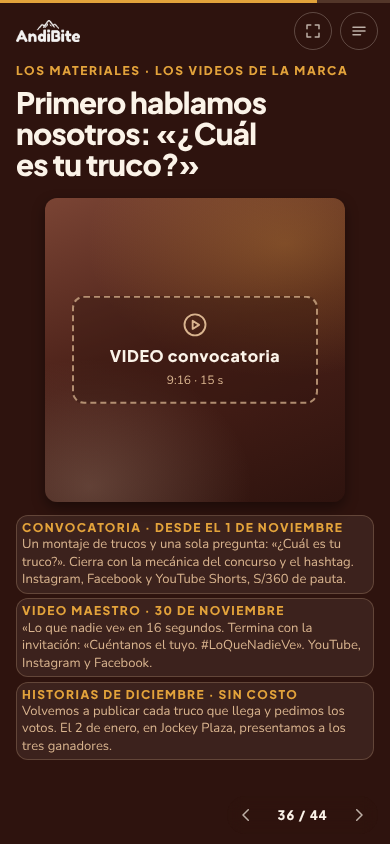
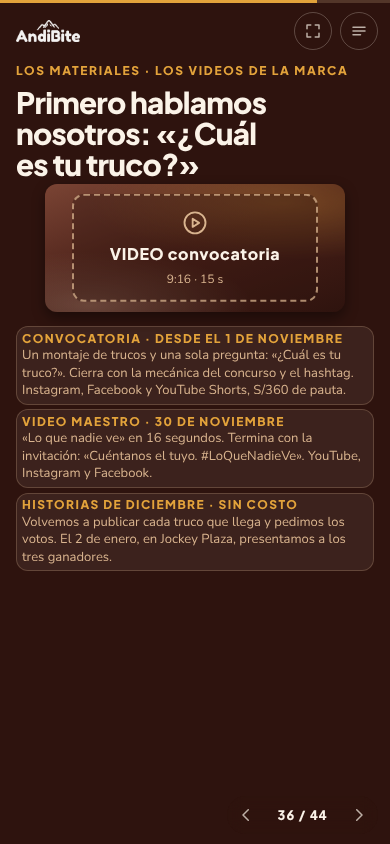
Hilo de campaña: 'Y otros lo cuentan por nosotros', tres familias ganadoras, documento de campaña al día
Claude-Session: https://claude.ai/code/session_01Kfbf7cfV7pXUcNjjyaPCzV

Changed region(s): [[0.0308, 0.2156, 0.9231, 0.8934], [0.8, 0.5237, 0.9231, 0.5545], [0.9231, 0.4621, 0.9538, 0.4929]]

diff --git a/04-reformulacion/T2/web-presentacion/index.html b/04-reformulacion/T2/web-presentacion/index.html
@@ -827,12 +827,12 @@
     <div class="ad">
       <div class="ad-media in"><div class="media media-v" data-video="vid/testimonial.mp4" data-media="img/campana/campana_3.jpg" data-label="VIDEO familia real" data-note="9:16 · 8 s"></div></div>
       <div class="ad-txt">
-        <p class="kicker in">Los materiales · testimonio de una familia real: el truco ganador del concurso</p>
+        <p class="kicker in">Los materiales · testimonio de una de las tres familias ganadoras del concurso</p>
         <h2 class="ad-hook in">“Mi truco era decirle que el hígado era carne de dinosaurio.”</h2>
         <p class="ad-body in">“Ahora no le cuento nada: le mando su brownie y la lonchera vuelve vacía. Lo que antes no veía, su hierro de cada día, ahora lo veo en la app.”</p>
         <div class="ad-ctas in"><span class="pieza-cta">Pruébalo en el stand</span><span class="pieza-cta cta-alt">Pídelo por WhatsApp</span></div>
         <dl class="datos in">
-          <div><dt>Cómo se hace</dt><dd>Grabado con celular el 2 de enero en Jockey Plaza, con la familia que ganó el concurso. Sin costo de producción.</dd></div>
+          <div><dt>Cómo se hace</dt><dd>Grabado con celular el 2 de enero en Jockey Plaza, con una de las tres familias ganadoras del concurso. Sin costo de producción.</dd></div>
           <div><dt>Cuándo</dt><dd>Desde febrero de 2027, en Lima Top y Lima Moderna</dd></div>
           <div><dt>Inversión</dt><dd>S/1,840 de pauta</dd></div>
           <div><dt>Meta</dt><dd>223 conversaciones de WhatsApp</dd></div>
@@ -843,15 +843,15 @@
 </section>
 
 <!-- 40 · PRIMERO LO CUENTAN ELLOS -->
-<section id="s-voces" data-sec="La campaña" data-title="Primero lo cuentan ellos" data-theme="light" data-background-color="#FBF3E8">
+<section id="s-voces" data-sec="La campaña" data-title="Y otros lo cuentan por nosotros" data-theme="light" data-background-color="#FBF3E8">
   <div class="frame">
-    <p class="kicker in">Antes que nosotros, hablan los que ya tienen un truco</p>
-    <h2 class="title in">Primero lo cuentan ellos.</h2>
+    <p class="kicker in">Los materiales · quienes lo pasan de boca en boca</p>
+    <h2 class="title in">Y otros lo cuentan por nosotros.</h2>
     <div class="finds finds-pv">
       <div class="find in"><i class="ico find-ico" data-icon="megaphone"></i><span class="find-n find-sm">S/458</span><h3>40 influencers con hijos</h3><p>20 de Lima Top y 20 de Lima Moderna reciben su pack y cuentan su propio truco con #LoQueNadieVe, antes del 10 de enero.</p></div>
       <div class="find in"><i class="ico find-ico" data-icon="flask"></i><span class="find-n find-sm">10 kits</span><h3>Pediatras y nutricionistas</h3><p>En enero, para quienes escuchan más trucos que nadie en la consulta.</p></div>
       <div class="find in"><i class="ico find-ico" data-icon="chat"></i><span class="find-n find-sm">S/200</span><h3>Papás y mamás embajadores, al mes</h3><p>Pasan su truco y su código en el chat del salón. Meta: 230 familias nuevas. El premio es para el adulto.</p></div>
-      <div class="find in"><i class="ico find-ico" data-icon="phone"></i><span class="find-n find-sm">S/600</span><h3>Concurso #LoQueNadieVe</h3><p>Del 1 de noviembre al 20 de diciembre. S/360 de pauta y S/240 en premios: un mes de lonchera para cada adulto ganador y su truco en el mural de Jockey Plaza.</p></div>
+      <div class="find in"><i class="ico find-ico" data-icon="phone"></i><span class="find-n find-sm">S/600</span><h3>Concurso #LoQueNadieVe</h3><p>Del 1 de noviembre al 20 de diciembre. S/360 de pauta y S/240 en premios: un mes de lonchera para cada uno de los tres adultos ganadores.</p></div>
     </div>
   </div>
 </section>

diff --git a/04-reformulacion/T2/web-presentacion/src/style.css b/04-reformulacion/T2/web-presentacion/src/style.css
@@ -1440,3 +1440,5 @@ body.is-hero .ui-brand { visibility: hidden; }
   .media-wide { display: none; }
 }
 #s-dinamica .twocol { margin-top: calc(1.6 * var(--u)); }
+.media-conv { height: min(calc(33 * var(--u)), 58vh); }
+.marca { margin-top: calc(1 * var(--u)); align-items: start; }

diff --git a/04-reformulacion/T2/web-presentacion/REVISION-31.md b/04-reformulacion/T2/web-presentacion/REVISION-31.md
@@ -1,15 +1,14 @@
 # Observaciones de Carlos (19-oct-2026) y estado
 
-Estado: **ABIERTO. SÉPTIMA VERIFICACIÓN DEL DIRECTOR, 19-oct-2026, 22:40** (commits `e7b0086` y `19d3f81`: capítulo de campaña reordenado, 43 pantallas + 4 anexos; capturas regeneradas, celular 01, 02, 05, 26, 28, 30, 31, 33 y 34; andibite.cingacordova.workers.dev descargado a las 22:25, igual a index.html salvo las etiquetas del build (index-LmbILwZQ.js, index-CZLrwqa7.css); app sin cambios desde `8d9f6d5`, bundle publicado index-BN0oG-Jj.js). Resultado: **27 CUMPLIDOS y 4 NO CUMPLIDOS (23, 25, 26 y 29)**; de las 5 transversales cumplen 2 (T1 y papá y mamá) y fallan 3 (hilo, palabras y frases espejo, cifras).
-Sexta verificación (commit `397656a`): 31 y 0. Quinta (commit `0ef5cf9`): 28 y 3 (21, 25 y 29).
-Cuarta verificación (commit `8d9f6d5`): 31 y 0. Tercera (commit `58efd7d`): 29 y 2 (26 y 29), más el hilo.
-Segunda verificación (commit `331f3a6`): 25 y 6. Primera (commit `c7adaf2`): 21 y 10.
-Formato: `N. [CUMPLIDO|NO CUMPLIDO] evidencia · qué falta`. "Casi" cuenta como NO CUMPLIDO. Numeración de pantallas nueva: 27 portada de campaña … 43 cierre; anexos 44 a 47 (index.html:930, :959, :983 y :1001).
+Estado: **ABIERTO. OCTAVA VERIFICACIÓN DEL DIRECTOR, 19-oct-2026, 22:50** (commits `f5b96bc` y `380dd8a`: videos de la marca, 44 pantallas + 4 anexos; capturas regeneradas a las 22:42; andibite.cingacordova.workers.dev descargado a las 22:44, igual a index.html salvo las etiquetas del build (index-qmko6LnL.js, index-CJqkde7v.css); app sin cambios desde `8d9f6d5`). Resultado: **28 CUMPLIDOS y 3 NO CUMPLIDOS (24, 25 y 29)**; de las 5 transversales cumplen 3 (T1, papá y mamá, cifras) y fallan 2 (hilo; frases espejo).
+Séptima verificación (commit `19d3f81`): 27 y 4 (23, 25, 26 y 29). Sexta (commit `397656a`): 31 y 0. Quinta (commit `0ef5cf9`): 28 y 3.
+Cuarta (commit `8d9f6d5`): 31 y 0. Tercera (commit `58efd7d`): 29 y 2. Segunda (commit `331f3a6`): 25 y 6. Primera (commit `c7adaf2`): 21 y 10.
+Formato: `N. [CUMPLIDO|NO CUMPLIDO] evidencia · qué falta`. "Casi" cuenta como NO CUMPLIDO. Numeración de pantallas: 27 portada de campaña … 36 videos de marca, 37-39 anuncios, 40 primero lo cuentan ellos, 41 stand, 42 equipo, 43 QR, 44 cierre; anexos 45 a 48 (index.html:950, :979, :1003 y :1021).
 
 1. Entre la 4 y la 5 aparece AndiBite: el divisor dice "Nuestra respuesta: AndiBite" y la 5 explica brevemente qué es.
-   **[CUMPLIDO]** index.html:102-131 sin cambios. Capturas escritorio-04 y 05 regeneradas. Hilo general de las 43 capturas: problema (1-3), AndiBite (4-5), investigación (6-13), producto (14-16), app (17-21), mercado (22-26), campaña (27-41), pruébenla (42) y cierre (43). Los fallos de hilo dentro de la campaña van en la transversal.
+   **[CUMPLIDO]** index.html:102-131 sin cambios. Capturas escritorio-04 y 05.
 
-2. Pantalla 6: sin repeticiones con la 5; nada contradictorio; fechas por semanas (S1–S4 entrevistas, S5 focus, S6 degustación, S7 cambio a A y B, hoy T2).
+2. Pantalla 6: sin repeticiones con la 5; nada contradictorio; fechas por semanas.
    **[CUMPLIDO]** index.html:141-145 sin cambios. Captura escritorio-06.
 
 3. Pantalla 10: cada hallazgo muestra qué decisión tomamos con él; título coherente.
@@ -21,106 +20,103 @@ Formato: `N. [CUMPLIDO|NO CUMPLIDO] evidencia · qué falta`. "Casi" cuenta como
 5. Pantalla 13: la razón "horno, moldes y balanza" explica que lo hace la maquila sin invertir en maquinaria.
    **[CUMPLIDO]** index.html:271. Captura escritorio-13.
 
-6. Propuesta de valor y app: control del hierro del día (mg frente a lo que necesita por edad), suma del brownie, de la lonchera y de otras comidas, y resumen para el padre o la madre que no está en casa. App minimalista.
-   **[CUMPLIDO]** App sin cambios desde 8d9f6d5 (bundle publicado index-BN0oG-Jj.js, el mismo de la sexta). app-capturas5/10-hoy: "1.9 de 10 mg", "Volvió vacía", "Otra comida con hierro", "Enviar a papá o mamá". Evidencia de la cuarta y sexta sigue válida (Reto.tsx:137, src/lib/compartir.ts:17, tests/logica.test.ts:120).
+6. Propuesta de valor y app: control del hierro del día, suma de brownie, lonchera y otras comidas, resumen para el padre o la madre que no está en casa. App minimalista.
+   **[CUMPLIDO]** App sin cambios desde 8d9f6d5; evidencia de la cuarta y sexta sigue válida (Reto.tsx:137, src/lib/compartir.ts:17, tests/logica.test.ts:120; app-capturas5/10-hoy).
 
-7. Pantalla 15 con impacto visual: foto, título grande, poco texto, animación.
+7. Pantalla 15 con impacto visual.
    **[CUMPLIDO]** index.html:336-354. Captura escritorio-15.
 
 8. Pantalla 19: capturas con marco y sombra.
    **[CUMPLIDO]** index.html:403-412. Captura escritorio-19.
 
 9. Toda la presentación y la app hablan a papá y mamá, no solo a la mamá.
-   **[CUMPLIDO]** Textos nuevos: 27 "un papá o una mamá inventa un truco" (:569), 34 "los trucos de mamá y los trucos de papá" (:728), 39 "papá y mamá publican su truco… el adulto gana" (:834), anexo 2 "con papá o mamá" (:970-971). "La mamá" solo en la cita de Vanessa (:584). App sin "la mamá" suelta (grep en src/).
+   **[CUMPLIDO]** Textos nuevos: "cada adulto ganador" (:854), "Papás y mamás embajadores" (:853), V3 y V4 de PROMPTS con adultos y sin niños. "Mamá" suelta solo en hechos (8 mamás de la degustación, :172 y :212-232) y en citas (:582-584). App sin "la mamá" suelta.
 
-10. Pantalla 21: una sola cifra de recompra explicada; el 30 % de escaneos no aparece ahí.
-   **[CUMPLIDO]** index.html:452 sin cambios. La 31 repite el mismo 35 % (:652), no otra cifra.
+10. Pantalla 21: una sola cifra de recompra explicada.
+   **[CUMPLIDO]** index.html:452; la 31 repite el mismo 35 % (:653).
 
-11. Buyer persona dinámico: marco de video por persona, menos texto, sin "lo escupe", interacción.
+11. Buyer persona dinámico.
    **[CUMPLIDO]** index.html:468-497. Captura escritorio-23.
 
-12. Pantalla 24: ejes y cuadrantes con lenguaje profesional; sin la línea de riesgo.
-   **[CUMPLIDO]** src/mapa.ts:1, :7 y :31-34 sin cambios. Captura escritorio-24.
+12. Pantalla 24: ejes y cuadrantes profesionales; sin la línea de riesgo.
+   **[CUMPLIDO]** src/mapa.ts sin cambios. Captura escritorio-24.
 
-13. Pantalla 25: sin "cómo lo calculamos"; hogares en una línea; menos texto.
+13. Pantalla 25: sin "cómo lo calculamos"; hogares en una línea.
    **[CUMPLIDO]** index.html:516-530. Captura escritorio-25.
 
 14. Stands consistentes: Jockey Plaza enero, Salaverry febrero, La Molina agosto.
-   **[CUMPLIDO]** index.html:555, :621-635 (30: "En el stand · desde el 2 de enero"), :648 (mural de Jockey Plaza al 31 de enero), :725, :731, :795 y :861. App: `GET https://andi-app.cingacordova.workers.dev/api/puntos` (22:30) devuelve p1 Jockey Plaza 2027-01-02, p2 Real Plaza Salaverry 2027-02-01 y p3 La Molina 2027-08-01.
+   **[CUMPLIDO]** index.html:630, :724-732, :776 ("El 2 de enero, en Jockey Plaza"), :835, :881.
 
-15. Campaña potente y emocional ("Lo que nadie ve"), con propósito; sin "su prueba… la tuya…".
-   **[CUMPLIDO]** index.html:562-888 (pantallas 27 a 41). Grep sin "su prueba" ni "la tuya" (solo en la lista de frases que se evitan, CAMPANA:210).
+15. Campaña potente y emocional, sin "su prueba… la tuya…".
+   **[CUMPLIDO]** index.html:562-907. Grep sin "su prueba" ni "la tuya" (solo en la lista de frases que se evitan, CAMPANA:210).
 
 16. "Contactos en espera" explicado o eliminado.
-   **[CUMPLIDO]** En la presentación, eliminado (grep sin resultados; el anexo 1 dice "100 familias en WhatsApp", :948). Queda en HECHOS_v7.md:204: ver transversal de cifras.
+   **[CUMPLIDO]** Sin resultados en index.html; HECHOS_v7.md:205 ahora dice "100 familias en WhatsApp".
 
 17. Concepto de campaña no genérico; conecta emocionalmente.
-   **[CUMPLIDO]** Insight (:576-588), manifiesto (:591-613) y dinámica «Cuéntanos tu truco. Funcione o no, cuenta.» (:616-640). Capturas escritorio-27 a 30.
+   **[CUMPLIDO]** Insight (:576-588), manifiesto (:591-613), dinámica (:616-641). Capturas escritorio-27 a 30.
 
 18. Pantalla 5-3-2 eliminada.
-   **[CUMPLIDO]** Grep sin resultados en index.html.
+   **[CUMPLIDO]** Grep sin resultados.
 
-19. Pantalla del stand: la imagen no tapa el título; lo que era "recomendación" es parte de la campaña.
-   **[CUMPLIDO]** Stand es ahora la 40 (:840-869); captura escritorio-40: el marco va debajo del título. "Primero lo cuentan ellos" es la 39 (:826-837), antes del stand (captura escritorio-39).
+19. Pantalla del stand: la imagen no tapa el título; "recomendación" pasa a ser parte de la campaña.
+   **[CUMPLIDO]** Stand es la 41 (:860-889); captura escritorio-41: el marco va debajo del título y los pasos son propios del stand (mural y trípode, mesa de degustación, caja y QR, :868-870).
 
-20. Pantalla de etapas: qué hacemos en cada etapa, con detalle.
-   **[CUMPLIDO]** Ahora la 34 (:713-736), tres viñetas y meta por etapa; S/1,758 + 5,796 + 9,770 + 7,220 = 24,544. Captura escritorio-34. Observación: en celular (celular-34) style.css:1404 oculta la 2.ª y 3.ª viñeta, así que en el teléfono la etapa pierde el concurso y las metas; ver observaciones.
+20. Pantalla de etapas con detalle.
+   **[CUMPLIDO]** La 34 (:714-737), S/1,758 + 5,796 + 9,770 + 7,220 = 24,544. Captura escritorio-34.
 
-21. Pantalla de gasto con cifras y título coherente; títulos encadenados en el capítulo.
-   **[CUMPLIDO]** 32 "S/24,544 en quince meses para que toda Lima cuente su truco." (:661) y 33 "En qué se va cada sol de la campaña." (:690). Por tipo de medio 7,596 + 6,858 + 5,950 + 4,140 = 24,544; Publicidad 5,950 = 4,050 + 1,000 + 600 + 300; Digital 26 % = 5,950 + 458 = 6,408; Calle 74 % = 18,136. Las 12 partidas de la 33 (:694-705) suman 24,544. Captura escritorio-32 y 33. Títulos: 27 → 28 → 29 → 30 → 31 → 32 → 33 → 34 → 35 → 39 → 40 → 41 encadenan con "truco"; la 31 "Cinco metas con fecha." es la redacción decidida por Carlos (HECHOS_v7.md:23).
+21. Pantalla de gasto con cifras y título coherente; títulos encadenados.
+   **[CUMPLIDO]** 32 (:662) y 33 (:691) sin cambios; 12 partidas = 24,544 (:695-708); 7,596 + 6,858 + 5,950 + 4,140 = 24,544.
 
-22. Sin textos pequeños sueltos que no transmiten nada.
-   **[CUMPLIDO]** Pantallas nuevas 30-33 sin pies sueltos (capturas escritorio-30 a 33). Solo el .src permitido de la pantalla 3 (:97).
+22. Sin textos pequeños sueltos.
+   **[CUMPLIDO]** Pantallas 30 y 36 sin pies sueltos (escritorio-30 y 36).
 
 23. Imágenes en lugares estratégicos en la mayoría de pantallas.
-   **[NO CUMPLIDO]** Con 43 pantallas, solo 21 tienen foto, captura o marco de imagen o video: 1, 3, 5, 8, 11, 12, 15, 16, 18, 19, 20, 23, 25, 27, 29, 36, 37, 38, 40, 41 y 43 (grep de `<img`/`data-media` por sección). 21 de 43 es el 49 %, no la mayoría (antes 21 de 40). Las cuatro pantallas nuevas (30 a 33) son solo texto, íconos o tablas. · Falta: imagen o marco de imagen en al menos una pantalla más (22 de 43). Lo más natural: en la 30 (La dinámica, :616-640) un marco `data-media` del mural con trucos o del video de 10 s, o en la 39 (:826-837) un marco de los posts de influencers.
+   **[CUMPLIDO]** 23 de 44 pantallas con foto, captura o marco (52 %): 1, 3, 5, 8, 11, 12, 15, 16, 18, 19, 20, 23, 25, 27, 29, 30, 36, 37, 38, 39, 41, 42 y 44. Nuevos: marco del mural en la 30 (:638, escritorio-30) y dos marcos de video en la 36 (:770-771, escritorio-36). La colisión del marco de la 36 con el título va en el punto 24.
 
 24. Agente de diseño revisó las capturas de las dos apps.
-   **[CUMPLIDO]** .claude/agents/t2-disenador.md; su pasada sobre el capítulo está en style.css:1408-1421 ("Diseñador: capítulo de campaña"). Observación: no detectó que la cuenta de imágenes bajó del 50 % (punto 23).
+   **[NO CUMPLIDO]** Captura escritorio-36: el marco vertical de la convocatoria (`.media-conv`, style.css:1429, alto `min(38u, 66vh)`) empieza justo debajo de la segunda línea del título y corta el trazo inferior del «¿» de «¿Cuál es tu truco?» (index.html:767); además baja casi hasta la barra de navegación. Es el mismo defecto que Carlos pidió corregir en el stand (punto 19). · Falta: separar el bloque `.marca` del título (margen superior) o bajar el alto de `.media-conv` para que el título quede entero, y regenerar escritorio-36.
 
 25. Agente creativo de campaña desarrolló la campaña.
-   **[NO CUMPLIDO]** CAMPANA sección 12 (:213-228) tiene el orden nuevo, las 12 partidas y los S/4,050 + S/1,000; CAMPANA:169 y :206 cuadran. Pero CAMPANA:222 dice "400,000 personas ven los videos en 2027" y cita el documento 17 (CPM S/12.69), que calcula **impresiones** (md/T2_17_Presupuesto.md:127: 5,050 ÷ 12.691 × 1,000 = 397,920), no personas; la pantalla 31 dice "vistas" (:650). · Falta: en CAMPANA:222 cambiar "400,000 personas ven los videos en 2027" por "400,000 vistas de los videos en 2027".
+   **[NO CUMPLIDO]** Cumplen CAMPANA:222 ("400,000 vistas"), HECHOS_v7.md:23 ("vistas"), :177 (S/4,050 + S/1,000), :205 ("100 familias en WhatsApp"), la viñeta "Videos de la marca" (HECHOS_v7.md:25), CAMPANA sección 12, punto 8 (:228) y PROMPTS V4 (:122-138) y cierre de V0 (:140). Pero la decisión "el testimonio lo graba la familia ganadora del concurso (pantalla 39 y CAMPANA)" no llegó a CAMPANA: la sección 6 dice todavía "Cómo se hace: grabado con celular en enero, con una familia embajadora" (CAMPANA:94), contra index.html:835 y HECHOS_v7.md:25 (el commit 380dd8a solo cambió index.html). La sección 7 del stand (CAMPANA:105-108) conserva los tres pasos viejos que la pantalla 41 ya no usa. · Falta: CAMPANA:94 con el mismo texto que la pantalla 39 (ver hilo, c) y CAMPANA:105-108 con los pasos de index.html:868-870.
 
 26. Agente redactor aplicó la revisión de redacción a todo.
-   **[NO CUMPLIDO]** La app y los alt siguen como en la sexta. Pero la 30 cierra con "Nadie aplaude esos trucos. Nosotros sí." (index.html:638, captura escritorio-30 y celular-30): es una frase de dos partes en eco, que CAMPANA:210 y t2-redactor.md ("Frases espejo… X. Y. repetido como eco") prohíben, y repite casi palabra por palabra la línea del manifiesto de la pantalla anterior (:605 "Nadie aplaude esos trucos, porque nadie los ve." y :606 "Este diciembre sí los aplaudimos."). · Falta: reemplazar index.html:638 por una línea que lleve a la 31 sin eco, por ejemplo "Cada truco que nos cuentas suma: queremos 300 al 31 de enero."
+   **[CUMPLIDO]** index.html:639 "Cada truco que nos cuentas suma: queremos 300 al 31 de enero." sin eco y lleva a la meta de la 31 (:649). El eco nuevo entre 36 y 40 va en las transversales.
 
 27. Director verificó todos los puntos.
-   **[CUMPLIDO]** Siete verificaciones con evidencia por punto: c7adaf2, 331f3a6, 58efd7d, 8d9f6d5, 0ef5cf9, 397656a y 19d3f81 (esta).
+   **[CUMPLIDO]** Ocho verificaciones con evidencia por punto; esta sobre 380dd8a.
 
 28. Logo AndiBite pequeño en todas las pantallas.
-   **[CUMPLIDO, con excepción aceptada]** Visible en las pantallas nuevas 30 a 35 y 39 (capturas) y en los 4 anexos (escritorio-44 a 47). Portada (1) y cierre (43) con el logo grande (escritorio-01 y 43), excepción ya aceptada.
+   **[CUMPLIDO, con excepción aceptada]** Visible en 30, 36, 39, 40 y 41 (capturas) y en los anexos. Portada y cierre con logo grande.
 
 29. Ciclo de revisión (/loop) hasta cumplir todo.
-   **[NO CUMPLIDO]** Ronda 7 (esta) reabre 23, 25 y 26 y tres transversales. · Falta: aplicar las correcciones de los puntos 23, 25 y 26 y de las transversales, regenerar capturas y pasar la octava verificación.
+   **[NO CUMPLIDO]** La octava reabre 24 y 25 y dos transversales. · Falta: corregir 24, 25, hilo y frases espejo, regenerar capturas y pasar la novena verificación.
 
 30. App: control de hierro del día mejorado (ver 6).
-   **[CUMPLIDO]** Sin cambios; app-capturas5/06, 08, 09 y 10.
+   **[CUMPLIDO]** Sin cambios.
 
 31. Juegos con niveles y duración, tres juegos de colegio por edad.
-   **[CUMPLIDO]** Sin cambios; src/data/ninos.ts:61, src/kids/colegio.ts, src/data/juegos-colegio.ts; app-capturas5/16 a 23.
+   **[CUMPLIDO]** Sin cambios.
 
 ## Revisión transversal
 
-- **T1 · Canvas, pantalla 14.** **[CUMPLIDO]** Captura escritorio-14 regenerada, 9 cajas sin cortes.
-- **Coherencia del hilo.** **[NO CUMPLIDO]** El orden 27 → 43 es el decidido (HECHOS_v7.md:23) y cada bloque sigue al anterior, pero con la pantalla 30 nueva quedan tres repeticiones:
-  (a) 29 → 30: "Nadie aplaude esos trucos…" se dice en :605 y otra vez en :638 (ver punto 26).
-  (b) 30 → 40: el stand repite los mismos tres pasos. :633 "Tu hijo prueba el mini brownie contigo al lado" = :849 "Tu hijo prueba el mini brownie contigo al lado."; :634 "Te llevas tu pack… tu truco se queda en el mural" ≈ :850 (capturas escritorio-30 y 40). · Falta: quitar la lista `<ol class="pasos">` de la 40 (:847-851) o cambiarla por lo que solo pasa en el stand (permiso firmado para el video, post-it sin nombre del niño, QR de WhatsApp en la bolsa).
-  (c) 30 → 39: la tarjeta del concurso (:834) repite :626 ("Los 3 trucos más votados abren el mural de Jockey Plaza y … gana un mes de lonchera"). · Falta: dejar en :834 solo lo que la 30 no dice: "Del 1 de noviembre al 20 de diciembre. S/360 de pauta y S/240 en premios: un mes de lonchera para cada adulto ganador."
-- **Papá y mamá.** **[CUMPLIDO]** Ver punto 9. Concurso y embajadores con premio para el adulto (:626, :833, :834).
-- **Palabras prohibidas y frases espejo.** **[NO CUMPLIDO]** Grep en index.html, src/ de la presentación y de la app, CAMPANA, PROMPTS y el HTML publicado: sin "SMART" en pantalla (solo en CAMPANA:219, "sin decir «SMART»"), "sorteo", "rifa", "supuesto" (solo dentro de "presupuesto", :930-932), "estimado", "[POR CONFIRMAR]", "EXPOINNOVA" ni el slogan viejo; "azar" solo dentro de "disfrazarlo" (:586) y en la nota legal (CAMPANA:137). Falla por la frase espejo de index.html:638 (ver punto 26).
-- **Cifras (31 ↔ 32 ↔ 33 ↔ 34 ↔ 35 ↔ 36-38 ↔ anexos ↔ CAMPANA ↔ HECHOS).** **[NO CUMPLIDO]** Cuadran en la presentación: 12 partidas = 24,544 (:694-705); 4,050 + 1,000 = 5,050 = 1,605 + 1,605 + 1,840 (:775, :796, :817); 613 = 195 + 195 + 223 (:650, :776, :797, :818, :976); etapas = 24,544 y brownies 3,700 + 20,320 + 28,311 = 52,331 (:717-733, :948-951); Gantt "Anuncios en Meta y YouTube" de enero a diciembre (:750); anexo 1 24 / 17 / 31 / 28 % (:938-941); anexo 3: 42,618 − 24,544 = 18,074 → 74 %, 24,544 ÷ 56,824 = 43 %, 10,379 ÷ 25,000 = 42 % (:990-992). Fallan cuatro cosas:
-  (a) HECHOS_v7.md:176 sigue diciendo "Pauta en Meta por mes… (S/5,050 en el año)", contra la decisión de HECHOS_v7.md:24. · Falta: "Pauta por mes, enero a diciembre: … (S/5,050 en el año: S/4,050 en Instagram y Facebook y S/1,000 en YouTube)".
-  (b) HECHOS_v7.md:204, fase Prelanzamiento, "100 contactos en espera". · Falta: "100 familias en WhatsApp" (como el anexo 1, :948).
-  (c) HECHOS_v7.md:23 dice "400,000 personas ven los videos" y la pantalla 31 dice "vistas"; son impresiones (documento 17, :127). · Falta: "400,000 vistas de los videos" en HECHOS_v7.md:23 (y CAMPANA:222, punto 25).
-  (d) Anexo 2, index.html:973: "Costo por contacto en Meta · S/5 o menos · Más de S/8 por 2 meses: cambiar anuncio". Con la misma tabla, S/5,050 ÷ 613 conversaciones = S/8.24 (documento 17, :131: S/8.23), o sea que el plan arranca por encima de la alerta, y "en Meta" ya no incluye YouTube. · Falta: renombrar a "Costo por conversación desde anuncios (Meta y YouTube)" y mostrar la base del plan, por ejemplo "S/8.23 en el plan (S/5,050 ÷ 613); buscamos S/5", con el umbral de alerta que decida Carlos (el documento 17, :269, propone pasar S/150 al mes a degustación si a fin de febrero sigue sobre S/8).
+- **T1 · Canvas, pantalla 14.** **[CUMPLIDO]** Captura escritorio-14, 9 cajas sin cortes.
+- **Coherencia del hilo.** **[NO CUMPLIDO]** Resueltos los tres fallos de la séptima en lo que se pidió: 29 → 30 sin eco (:639); 30 → 41 con pasos propios del stand (:868-870). Quedan tres:
+  (a) 36 ↔ 40 se contradicen. La 36 dice «Primero hablamos nosotros» y pone la voz de la marca desde el 1 de noviembre (:767, :774); la 40 dice «Antes que nosotros, hablan los que ya tienen un truco» y «Primero lo cuentan ellos.» (:848-849), y sus influencers van antes del 10 de enero y sus embajadores en 2027 (:851-853), es decir, después de la marca. · Falta: quitar "Primero" y "Antes que nosotros" de una de las dos. Lo más simple: 40 con antetítulo "Los que ya tienen un truco lo pasan de casa en casa" y título "Y después lo cuentan ellos." (o el que decida Carlos), y lo mismo en CAMPANA sección 8 (:122-123), CAMPANA:228 y HECHOS_v7.md:23.
+  (b) 30 → 40: la tarjeta del concurso sigue repitiendo la 30. :854 termina "…un mes de lonchera para cada adulto ganador y su truco en el mural de Jockey Plaza." = :626 "Los 3 trucos más votados abren el mural de Jockey Plaza…" (y la 36, :776, ya presenta a los ganadores en Jockey Plaza). · Falta: borrar "y su truco en el mural de Jockey Plaza" de :854, como se pidió en la séptima.
+  (c) 39 ↔ 30 ↔ 36: hay tres ganadores (:626 "Los 3 trucos más votados", :776 "presentamos a los tres ganadores", CAMPANA 8b), pero la 39 habla de uno: "el truco ganador del concurso" (:830) y "con la familia que ganó el concurso" (:835). · Falta: ":830 testimonio de una familia real: uno de los trucos ganadores del concurso" y ":835 Grabado con celular el 2 de enero en Jockey Plaza, con una de las tres familias ganadoras. Sin costo de producción."; el mismo texto en CAMPANA:94 (punto 25).
+- **Papá y mamá.** **[CUMPLIDO]** Ver punto 9.
+- **Palabras prohibidas y frases espejo.** **[NO CUMPLIDO]** Grep en index.html, src/ de la presentación y de la app, CAMPANA, PROMPTS y el HTML publicado: sin "supuesto" (solo dentro de "presupuesto"), "estimado", "[POR CONFIRMAR]", "EXPOINNOVA", "sorteo", "rifa", "Nosotros sí" ni el slogan viejo "Hierro medido. Sabor a brownie." (style.css:451 "MEDIDO, NO PROMETIDO" es un comentario de CSS, no se ve). Falla por el par en eco «Primero hablamos nosotros» / «Primero lo cuentan ellos.» (:767 y :849, cuatro pantallas de distancia, misma estructura "Primero + nosotros/ellos"), que CAMPANA:210 prohíbe. Se resuelve con el cambio del hilo (a).
+- **Cifras (30 ↔ 31 ↔ 32 ↔ 33 ↔ 34 ↔ 36 ↔ 37-39 ↔ 40 ↔ anexos ↔ CAMPANA ↔ HECHOS).** **[CUMPLIDO]** Sin cambios en las cifras: 12 partidas = 24,544 (:695-708); 4,050 + 1,000 = 5,050 = 1,605 + 1,605 + 1,840 (:795, :816, :837); 613 = 195 + 195 + 223 (:651, :996); etapas = 24,544; brownies 3,700 + 20,320 + 28,311 = 52,331; S/600 = 360 + 240 (:697, :774, :854; HECHOS_v7.md:22). Corregidos los cuatro de la séptima: HECHOS_v7.md:177 (4,050 + 1,000), :205 (100 familias), :23 y CAMPANA:222 (vistas), anexo 2 :993 (S/8.23 = 5,050 ÷ 613; buscamos S/5; alerta si pasa de S/8.23 dos meses seguidos). Video maestro: 16 s y 30 de noviembre en :564, :721, :775, Gantt :747 y HECHOS_v7.md:25.
 
-## Observaciones sin estado (séptima verificación)
+## Observaciones sin estado (octava verificación)
 
-- Celular: style.css:1404 oculta la 2.ª y 3.ª viñeta de cada etapa (celular-34) y en la 32 y la 33 se ocultan las descripciones por medio y la columna "Cuándo" (celular-33). En proyector no afecta; si la profesora abre el enlace en el teléfono, la 34 pierde el concurso y las metas. La 35 (Gantt) y la 39 siguen fuera de las capturas de celular (scripts/capturas.mjs:63).
-- La 32 dice "En la calle · 74 %: Stands, ferias…", pero el alquiler de los stands (S/600 al mes por punto) no está en los S/24,544; si preguntan, "stands" aquí es la degustación y el material del stand.
-- La 33 pone los S/600 del concurso en "Noviembre y diciembre de 2026" y HECHOS_v7.md:183 los pone en diciembre; no cambia ningún total (ya anotado en la quinta).
-- La 39 ("Primero lo cuentan ellos", Nov-Ene) va después de los anuncios de 2027 (36-38); es el orden decidido (HECHOS_v7.md:23) y el título se lee como "primero en el tiempo", no en la presentación.
+- Celular: la 30 oculta el marco del mural (celular-30) y la 36 oculta el video maestro (style.css:1439, celular-36). En proyector no afecta.
+- El gancho del testimonio («carne de dinosaurio», :831) está escrito antes de saber qué truco gana; CAMPANA:99 ya dice que el guion es referencia y que se usa el truco real. Si preguntan, esa es la respuesta.
+- HECHOS_v7.md:22 dice que el concurso va "en la pantalla 33 (tarjeta S/600)"; hoy es la 40. HECHOS_v7.md:23 (orden del capítulo) no nombra la pantalla de videos de marca, aunque la viñeta de :25 sí la ubica. CAMPANA:14 (hilo de títulos) sigue con el orden anterior al reordenamiento.
+- HECHOS_v7.md:208 (Expandir) dice "unos 2,300 contactos" y la presentación "unas 2,300 familias en WhatsApp" (:734, :971); no cambia la cifra.
+- La 32 dice "En la calle · 74 %: Stands…", pero el alquiler de los stands no está en los S/24,544 (ya anotado en la séptima).
 
 ## Cierre de la sexta ronda (19-oct-2026, 22:00)
 
-Los 31 puntos y las 4 transversales cumplían en el commit 397656a. La séptima verificación (arriba, commit 19d3f81) reabre 23, 25, 26 y 29 por el capítulo de campaña reordenado.
+Los 31 puntos y las 4 transversales cumplían en el commit 397656a. La séptima (19d3f81) reabrió 23, 25, 26 y 29 por el capítulo reordenado; la octava (380dd8a) cierra 23 y 26 y reabre 24 y 25 por la pantalla 36 de videos de marca y el testimonio.

diff --git a/04-reformulacion/T2/HECHOS_v7.md b/04-reformulacion/T2/HECHOS_v7.md
@@ -20,9 +20,9 @@
 - **Llamado a la acción:** siempre doble: "Pruébalo en el stand" y "Pídelo por WhatsApp". Meta Ads: "video para los padres".
 - **Campaña (decidida el 19-oct, segunda ronda): "Lo que nadie ve."** Idea: cada papá y cada mamá inventa trucos para que su hijo coma lo que le hace bien y nadie ve ese esfuerzo; AndiBite es "el truco que ya no necesita cuento" y la app muestra el hierro de cada día. Hashtag #LoQueNadieVe. Cartel del stand: "Aquí sí vemos tu truco." / "Cuéntanoslo y pruébalo con tu hijo." / slogan. Línea de cierre: "Lo que haces cada mañana, por fin se ve." Textos completos en `web-presentacion/CAMPANA-lo-que-nadie-ve.md`. Reemplaza a "Vuelve vacía" y a "Su prueba: la lonchera vacía…".
 - **Concurso #LoQueNadieVe (decidido el 19-oct-2026):** del 1 de noviembre al 20 de diciembre de 2026, papá o mamá publica su truco (sin el niño en cámara) con #LoQueNadieVe y etiquetando a @andibite.pe; la marca lo vuelve a publicar y ganan los 3 trucos con más "me gusta" en la cuenta de AndiBite al 31 de diciembre. Premio para el adulto: su truco abre el mural de Jockey Plaza el 2 de enero, y el adulto gana un mes de lonchera (4 packs de 12; S/236 en producto los tres). Sale de los S/600 de expectativa: S/360 de pauta y S/240 en premios; el total S/24,544 y el prelanzamiento S/1,758 no cambian. Es concurso por votos, sin azar; Adela confirma con la ONAGI (Ministerio del Interior; D. S. 006-2000-IN) antes del 1 de noviembre si necesita autorización, y publica las bases. Alimenta la meta de 100 familias en WhatsApp. En la presentación va en la pantalla 33 (tarjeta S/600), en la etapa de prelanzamiento, en el manifiesto ("Este diciembre sí los aplaudimos.") y en el Gantt.
-- **Capítulo de campaña reordenado (19-oct-2026, segunda ronda):** concepto (portada, insight, manifiesto) → la dinámica («Cuéntanos tu truco. Funcione o no, cuenta.»: en redes con #LoQueNadieVe y en el stand, donde la degustación es gratis a cambio de contar o escribir el truco) → cinco metas con fecha (300 trucos al 31-ene-2027: 150 en redes y 150 en el mural; 100 familias en WhatsApp antes del 2-ene y 500 seguidores al 31-dic-2026; 400,000 vistas de los videos en 2027, 4,100 clics al llamado a la acción y 613 conversaciones; 3,700 brownies en ene-feb y 52,331 en 2027; 35 % de recompra y 2,300 familias al 31-dic-2027) → la campaña en una pantalla (S/24,544, quince meses, 74 % calle / 26 % digital) → cuánto cuesta cada cosa (12 partidas) → etapas → Gantt → anuncios → primero lo cuentan ellos → stand. Cada meta lleva número, cómo se mide y fecha, sin usar la palabra "SMART". El anexo 2 de KPI suma trucos contados, vistas y clics, conversaciones y seguidores; el anexo 3 explica el ROI en palabras simples.
+- **Capítulo de campaña reordenado (19-oct-2026, segunda ronda):** concepto (portada, insight, manifiesto) → la dinámica («Cuéntanos tu truco. Funcione o no, cuenta.»: en redes con #LoQueNadieVe y en el stand, donde la degustación es gratis a cambio de contar o escribir el truco) → cinco metas con fecha (300 trucos al 31-ene-2027: 150 en redes y 150 en el mural; 100 familias en WhatsApp antes del 2-ene y 500 seguidores al 31-dic-2026; 400,000 vistas de los videos en 2027, 4,100 clics al llamado a la acción y 613 conversaciones; 3,700 brownies en ene-feb y 52,331 en 2027; 35 % de recompra y 2,300 familias al 31-dic-2027) → la campaña en una pantalla (S/24,544, quince meses, 74 % calle / 26 % digital) → cuánto cuesta cada cosa (12 partidas) → etapas → Gantt → anuncios → y otros lo cuentan por nosotros → stand. Cada meta lleva número, cómo se mide y fecha, sin usar la palabra "SMART". El anexo 2 de KPI suma trucos contados, vistas y clics, conversaciones y seguidores; el anexo 3 explica el ROI en palabras simples.
 - **Pauta en YouTube (decidido el 19-oct-2026):** de los S/5,050 de pauta de 2027, S/4,050 van a Instagram y Facebook y S/1,000 a YouTube (el video maestro en 16:9 y los tres anuncios como Shorts). El presupuesto por anuncio (S/1,605 / S/1,605 / S/1,840) y las metas de conversaciones (195 / 195 / 223) no cambian. Sin paneles ni otro medio ATL.
-- **Videos de la marca (decidido el 19-oct-2026):** antes de los anuncios de lanzamiento, la marca habla: (1) video de convocatoria, 9:16, 15 s, desde el 1 de noviembre, con la pregunta «¿Cuál es tu truco?», la mecánica del concurso y el hashtag; es la pieza de los S/360 de pauta de expectativa; (2) el video maestro «Lo que nadie ve» (16:9, 16 s, 30 de noviembre) termina con la invitación «Cuéntanos el tuyo. #LoQueNadieVe»; (3) historias de diciembre sin costo: la marca vuelve a publicar cada truco y pide votos; el 2 de enero presenta a los tres ganadores en Jockey Plaza. Los tres anuncios (Claudia, Rodrigo, testimonio) quedan como publicidad de lanzamiento desde enero; el testimonio lo protagoniza el truco ganador. En la presentación es la pantalla "Primero hablamos nosotros", antes de los anuncios.
+- **Videos de la marca (decidido el 19-oct-2026):** antes de los anuncios de lanzamiento, la marca habla: (1) video de convocatoria, 9:16, 15 s, desde el 1 de noviembre, con la pregunta «¿Cuál es tu truco?», la mecánica del concurso y el hashtag; es la pieza de los S/360 de pauta de expectativa; (2) el video maestro «Lo que nadie ve» (16:9, 16 s, 30 de noviembre) termina con la invitación «Cuéntanos el tuyo. #LoQueNadieVe»; (3) historias de diciembre sin costo: la marca vuelve a publicar cada truco y pide votos; el 2 de enero presenta a los tres ganadores en Jockey Plaza. Los tres anuncios (Claudia, Rodrigo, testimonio) quedan como publicidad de lanzamiento desde enero; el testimonio lo graba una de las tres familias ganadoras. En la presentación es la pantalla "Primero hablamos nosotros", antes de los anuncios.
 - **FODA cruzado, estrategia FA:** "Diferenciarse con el sabor y el formato lonchera; hablar de hierro, no de anemia." (antes: "con el dato del lote").
 - **Presentación web:** sin líneas de fuente (salvo la cifra de anemia: INS-CENAN 2025, 15.5 % en niños de 5 a 11 años, "1 de cada 6"), sin "supuesto", "estimado" ni "[POR CONFIRMAR]", sin "EXPOINNOVA". Las fechas y metas del plan se presentan como plan, con seguridad.
 - **Documentos que todavía tienen el slogan o el enfoque viejo (se actualizan cuando Carlos lo pida):** T2_01 (Canvas), T2_04 (FA), T2_10, T2_11, T2_12, T2_13, T2_14, T2_15, T2_18, T2_21, `T2_Sustentacion-AndiBite.pptx`, `T2_22_Plan-de-marketing-AndiBite.pptx` y la TC5-8.

diff --git a/04-reformulacion/T2/web-presentacion/CAMPANA-lo-que-nadie-ve.md b/04-reformulacion/T2/web-presentacion/CAMPANA-lo-que-nadie-ve.md
@@ -11,7 +11,7 @@ Textos para las 12 pantallas del capítulo 05 de la presentación web, para el j
 **Llamados:** «Pruébalo en el stand» y «Pídelo por WhatsApp».
 
 **El hilo de los títulos (se leen seguidos como una historia):**
-Lo que nadie ve → Todos tienen un truco → Y entonces hicimos el nuestro → Claudia ya probó todos los trucos → Rodrigo no tiene tiempo para cuentos → Y una familia real cuenta el suyo → En el stand, cada truco se cuenta en voz alta → Primero lo cuentan ellos → El truco corre de casa en casa → S/24,544 para que toda Lima cuente su truco → Detrás de cada truco, quince meses de trabajo → Los que no salen en el video.
+Lo que nadie ve → Todos tienen un truco → Y entonces hicimos el nuestro → Claudia ya probó todos los trucos → Rodrigo no tiene tiempo para cuentos → Y una familia real cuenta el suyo → En el stand, cada truco se cuenta en voz alta → Y otros lo cuentan por nosotros → El truco corre de casa en casa → S/24,544 para que toda Lima cuente su truco → Detrás de cada truco, quince meses de trabajo → Los que no salen en el video.
 
 ---
 
@@ -91,7 +91,7 @@ Video: maestro 16:9 de 16 s (`vid/campana_maestro.mp4`), sin texto en la imagen.
 - **Llamados:** Pruébalo en el stand · Pídelo por WhatsApp
 - **Tarjeta:**
   - Canal: Instagram y Facebook, video vertical de 8 s
-  - Cómo se hace: grabado con celular en enero, con una familia embajadora; sin costo de producción
+  - Cómo se hace: grabado con celular el 2 de enero en Jockey Plaza, con una de las tres familias ganadoras del concurso; sin costo de producción
   - Cuándo: desde febrero de 2027, en Lima Top y Lima Moderna
   - Inversión: S/1,840 de pauta
   - Meta: 223 conversaciones de WhatsApp
@@ -103,9 +103,9 @@ Nota de producción (no va en pantalla): el guion es una referencia. La familia 
 - **Título:** En el stand, cada truco se cuenta en voz alta.
 - **Línea:** Cuéntanos tu truco y pruébalo con tu hijo.
 - **Cómo funciona:**
-  1. Nos cuentas tu truco en 10 segundos a cámara, o lo escribes en un post-it del mural «Lo que nadie ve».
-  2. Tu hijo prueba el mini brownie contigo al lado.
-  3. Te llevas tu pack, y tu truco se queda en el mural.
+  1. El mural de post-its y un celular en trípode para grabar el truco en 10 segundos.
+  2. La mesa de degustación: 600 muestras en la apertura, con un vendedor que escucha.
+  3. La caja con los packs y el QR que abre la app antes de salir del stand.
 - **Cartel de tres líneas:**
   1. Aquí sí vemos tu truco.
   2. Cuéntanoslo y pruébalo con tu hijo.
@@ -117,9 +117,9 @@ Nota de producción (no va en pantalla): el guion es una referencia. La familia 
   - Jockey Plaza abre el 2 y 3 de enero de 2027
   - Salaverry en febrero y La Molina en agosto, con el mismo mural
 
-## 8. Primero lo cuentan ellos
+## 8. Y otros lo cuentan por nosotros
 
-- **Título:** Primero lo cuentan ellos.
+- **Título:** Y otros lo cuentan por nosotros.
 - **Línea:** Antes que nosotros, hablan los que ya tienen un truco.
 - **Puntos:**
   1. **40 influencers con hijos (S/458).** 20 de Lima Top y 20 de Lima Moderna reciben su pack y cuentan su propio truco con #LoQueNadieVe y #publicidad, antes del 10 de enero.
@@ -225,4 +225,4 @@ La app es la parte de la idea que «muestra lo que nadie ve». Se ajustan tres t
 5. **La campaña en una pantalla:** S/24,544, quince meses (octubre de 2026 a diciembre de 2027), concepto, 74 % en la calle y 26 % digital, y el gasto por tipo de medio.
 6. **Cuánto cuesta cada cosa:** las doce partidas (anuncios en Instagram y Facebook 4,050; YouTube 1,000; expectativa y premios 600; video maestro 300; influencers 458; 600 muestras 1,146; degustaciones 1,750; mural, cartel, hablador y material 2,300; embajadores 2,400; vendedores 4,140; stand en 2 ferias 3,600; aporte a 40 eventos 2,800).
 7. Las cuatro etapas y el Gantt.
-8. **Los materiales:** primero los videos de la marca («Primero hablamos nosotros»: convocatoria del concurso desde el 1 de noviembre con S/360 de pauta; video maestro del 30 de noviembre que cierra con «Cuéntanos el tuyo. #LoQueNadieVe»; historias de diciembre sin costo y presentación de los ganadores el 2 de enero), después los tres anuncios (publicidad en Instagram, Facebook y YouTube Shorts), «Primero lo cuentan ellos» (influencers, pediatras, embajadores y el concurso) y el stand (BTL) con el mural.
+8. **Los materiales:** primero los videos de la marca («Primero hablamos nosotros»: convocatoria del concurso desde el 1 de noviembre con S/360 de pauta; video maestro del 30 de noviembre que cierra con «Cuéntanos el tuyo. #LoQueNadieVe»; historias de diciembre sin costo y presentación de los ganadores el 2 de enero), después los tres anuncios (publicidad en Instagram, Facebook y YouTube Shorts), «Y otros lo cuentan por nosotros» (influencers, pediatras, embajadores y el concurso) y el stand (BTL) con el mural.
